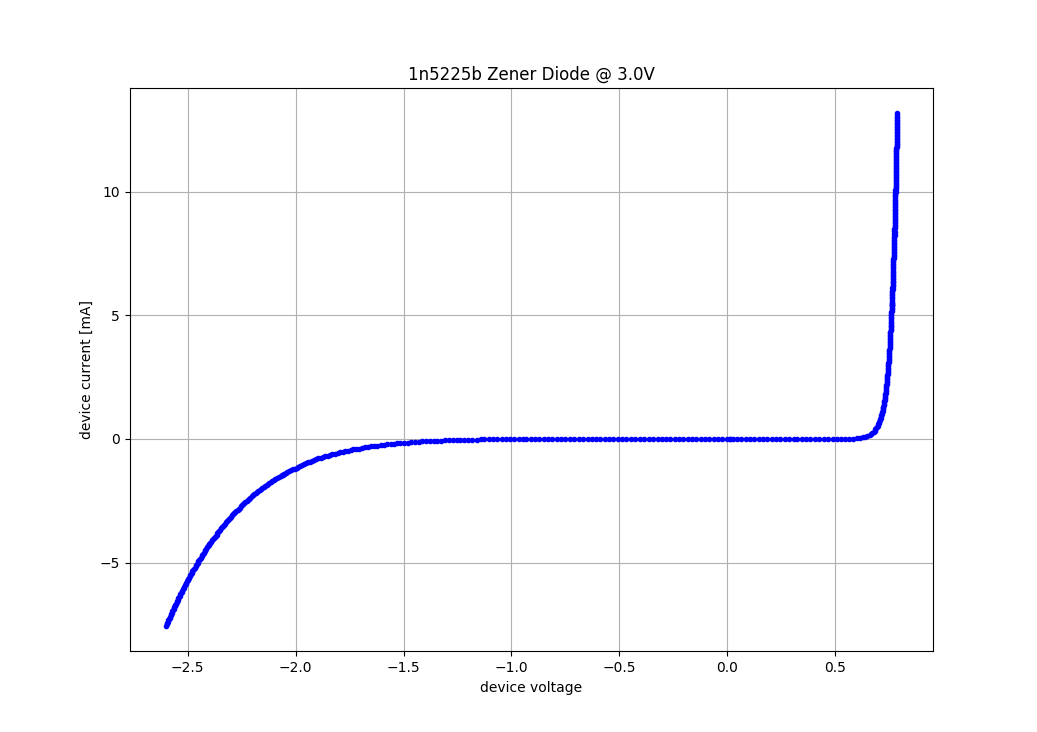
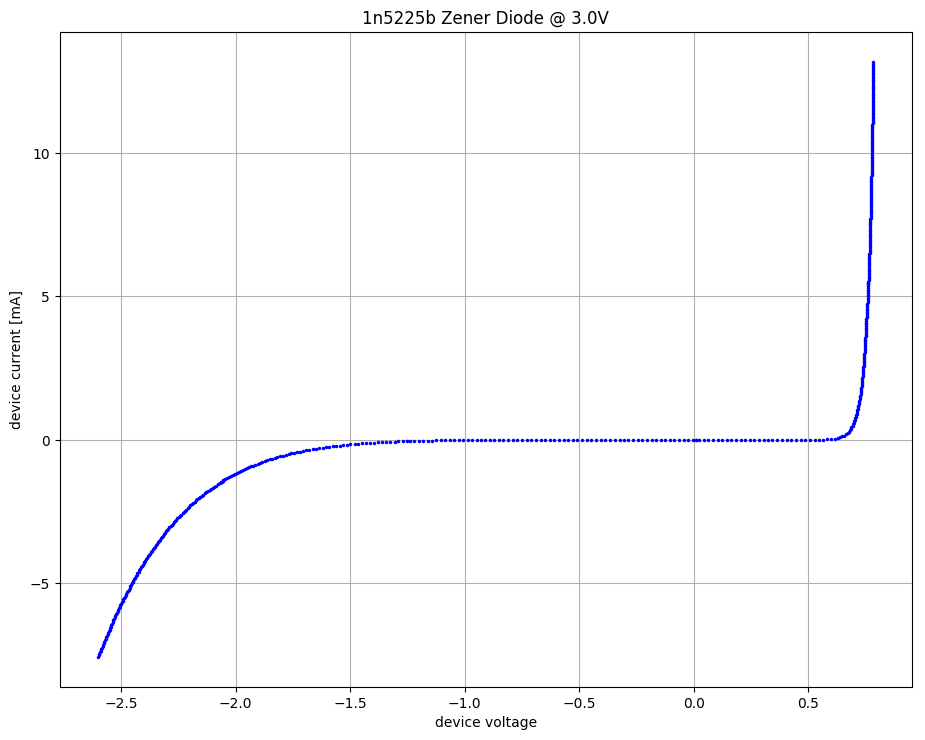
Added option to generate png output file directly. Tuned matplotlib options.

diff --git a/plot.py b/plot.py
@@ -103,19 +103,23 @@ def Description(varname):
     raise Exception('Unknown variable: ' + varname)
 
 
-def PlotFile(xvar, yvar, filename):
+def PlotFile(xvar, yvar, filename, outImageFileName = None):
     f = DataFile(filename)
     xlist = []
     ylist = []
     for d in f.data:
         xlist.append(d.GetVar(xvar))
         ylist.append(d.GetVar(yvar))
-    plt.plot(xlist, ylist, 'b.')
+    plt.figure(figsize=(11, 8.5), dpi=100)
+    plt.plot(xlist, ylist, 'b.', markersize=3)
     plt.title(f.title or filename)
     plt.xlabel(Description(xvar))
     plt.ylabel(Description(yvar))
     plt.grid()
-    plt.show()
+    if outImageFileName:
+        plt.savefig(outImageFileName, dpi=100, bbox_inches='tight')
+    else:
+        plt.show()
     plt.close('all')    # free all memory
     return 0
 
@@ -124,8 +128,11 @@ if __name__ == '__main__':
     if len(sys.argv) == 4:
         sys.exit(PlotFile(sys.argv[1], sys.argv[2], sys.argv[3]))
 
+    if len(sys.argv) == 5:
+        sys.exit(PlotFile(sys.argv[1], sys.argv[2], sys.argv[3], sys.argv[4]))
+
     print(r'''
-USAGE:  plot.py x y datafile.txt
+USAGE:  plot.py x y datafile.txt [outfile.png]
 
 Where x and y are each one of the following:
 
@@ -133,5 +140,9 @@ Where x and y are each one of the following:
     v1 = measured voltage coming out of the op-amp.
     v2 = measured voltage fed into the test device.
     i  = deduced current calculated as (v1-v2)/R.
+
+If outfile.png is provided on the command line, the image
+is saved directly to that file.
+Otherwise, the graph is shown interactively.
 ''')
     sys.exit(1)
